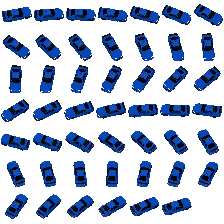
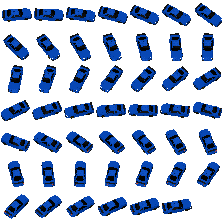
clear and optimizations

diff --git a/src/main.ts b/src/main.ts
@@ -1,6 +1,6 @@
 import CarObject from "./objects/CarObject.ts";
 import PolygonCollider from "./objects/Colliders/PolygonCollider.ts";
-import {vec2D} from "./utils/math.ts";
+import {degreesToRadians, vec2D} from "./utils/math.ts";
 import Scene from "./Scene.ts";
 import KajakEngine from "./KajakEngine.ts";
 import TreeObject from "./objects/TreeObject.ts";
@@ -11,6 +11,7 @@ import {TrackBarriers} from "./objects/BarierSystem.ts";
 import CheckpointObject from "./objects/CheckpointObject.ts";
 import {AIBehaviorType, CarAIController} from "./objects/CarAI.ts";
 import {setupStartingGrid} from "./utils/gridPositionHelper.ts";
+import {AABBCollider} from "./objects/Colliders/AABBCollider.ts";
 
 const canvas = document.createElement('canvas');
 document.body.appendChild(canvas);
@@ -35,25 +36,22 @@ engine.setCurrentScene(1);
 
 const checkpoints = [
     new CheckpointObject({
-        position: vec2D(-50, 10),
+        position: vec2D(-46, 10),
         size: vec2D(10, 2),
         order: 0,
         isFinishLine: false,
         movable: false,
-        collider: new PolygonCollider(
-            vec2D(0, 0),
-            [
-                vec2D(-5, -1),
-                vec2D(5, -1),
-                vec2D(5, 1),
-                vec2D(-5, 1)
-            ]
+        rotation: degreesToRadians(45),
+        collider: new AABBCollider(
+            vec2D(-12, -1),
+            vec2D(22, 2)
         ),
         spriteManager: new SpriteManager({
-            imageSrc: 'src/assets/map2.png',
+            imageSrc: 'src/assets/checkpoint.png',
             cellSize: vec2D(32, 32),
-            count: 1,
-            columns: 1
+            count: 48,
+            columns: 7,
+            offset: 47
         }),
         mass: 1
     }),
@@ -63,112 +61,97 @@ const checkpoints = [
         order: 1,
         isFinishLine: false,
         movable: false,
-        collider: new PolygonCollider(
-            vec2D(0, 0),
-            [
-                vec2D(-5, -1),
-                vec2D(5, -1),
-                vec2D(5, 1),
-                vec2D(-5, 1)
-            ]
+        rotation: degreesToRadians(130),
+        collider: new AABBCollider(
+            vec2D( -1, -12),
+            vec2D(2, 18,)
         ),
         spriteManager: new SpriteManager({
-            imageSrc: 'src/assets/map2.png',
+            imageSrc: 'src/assets/checkpoint.png',
             cellSize: vec2D(32, 32),
-            count: 1,
-            columns: 1
+            count: 48,
+            columns: 7,
+            offset: 47
         }),
         mass: 1
     }),
     new CheckpointObject({
-        position: vec2D(25, -15),
+        position: vec2D(25, -18),
         size: vec2D(10, 2),
         order: 2,
         isFinishLine: false,
         movable: false,
-        collider: new PolygonCollider(
-            vec2D(0, 0),
-            [
-                vec2D(-5, -1),
-                vec2D(5, -1),
-                vec2D(5, 1),
-                vec2D(-5, 1)
-            ]
+        rotation: degreesToRadians(65),
+        collider: new AABBCollider(
+            vec2D( -1, -12),
+            vec2D(2, 18,)
         ),
         spriteManager: new SpriteManager({
-            imageSrc: 'src/assets/map2.png',
+            imageSrc: 'src/assets/checkpoint.png',
             cellSize: vec2D(32, 32),
-            count: 1,
-            columns: 1
+            count: 48,
+            columns: 7,
+            offset: 47
         }),
         mass: 1
     }),
     new CheckpointObject({
-        position: vec2D(45, 0),
+        position: vec2D(50, 0),
         size: vec2D(10, 2),
         order: 3,
         isFinishLine: false,
         movable: false,
-        collider: new PolygonCollider(
-            vec2D(0, 0),
-            [
-                vec2D(-5, -1),
-                vec2D(5, -1),
-                vec2D(5, 1),
-                vec2D(-5, 1)
-            ]
+        rotation: degreesToRadians(0),
+        collider: new AABBCollider(
+            vec2D(-12, -1),
+            vec2D(22, 2)
         ),
         spriteManager: new SpriteManager({
-            imageSrc: 'src/assets/map2.png',
+            imageSrc: 'src/assets/checkpoint.png',
             cellSize: vec2D(32, 32),
-            count: 1,
-            columns: 1
+            count: 48,
+            columns: 7,
+            offset: 47
         }),
         mass: 1
     }),
     new CheckpointObject({
-        position: vec2D(25, 18),
+        position: vec2D(26, 16),
         size: vec2D(10, 2),
         order: 4,
         isFinishLine: false,
         movable: false,
-        collider: new PolygonCollider(
-            vec2D(0, 0),
-            [
-                vec2D(-5, -1),
-                vec2D(5, -1),
-                vec2D(5, 1),
-                vec2D(-5, 1)
-            ]
+        rotation: degreesToRadians(245),
+        collider: new AABBCollider(
+            vec2D(-1, -12),
+            vec2D(2, 22)
         ),
         spriteManager: new SpriteManager({
-            imageSrc: 'src/assets/map2.png',
+            imageSrc: 'src/assets/checkpoint.png',
             cellSize: vec2D(32, 32),
-            count: 1,
-            columns: 1
+            count: 48,
+            columns: 7,
+            offset: 47
         }),
         mass: 1
     }),
     new CheckpointObject({
-        position: vec2D(-35, -23),
+        position: vec2D(-25, -18),
         size: vec2D(10, 2),
         order: 5,
         isFinishLine: false,
         movable: false,
-        collider: new PolygonCollider(
-            vec2D(0, 0),
-            [
-                vec2D(-5, -1),
-                vec2D(5, -1),
-                vec2D(5, 1),
-                vec2D(-5, 1)
-            ]
+        rotation: degreesToRadians(285),
+        collider: new AABBCollider(
+            vec2D(-1, -12),
+            vec2D(2, 22)
         ),
         spriteManager: new SpriteManager({
-            imageSrc: 'src/assets/map2.png',
+            imageSrc: 'src/assets/checkpoint.png',
             cellSize: vec2D(32, 32),
-            count: 1,
-            columns: 1
+            count: 48,
+            columns: 7,
+            offset: 47
         }),
         mass: 1
     }),
@@ -178,20 +161,17 @@ const checkpoints = [
         order: 6,
         isFinishLine: true,
         movable: false,
-        collider: new PolygonCollider(
-            vec2D(0, 0),
-            [
-                vec2D(-5, -1),
-                vec2D(5, -1),
-                vec2D(5, 1),
-                vec2D(-5, 1)
-            ]
+        rotation: degreesToRadians(0),
+        collider: new AABBCollider(
+            vec2D(-12, -1),
+            vec2D(22, 2)
         ),
         spriteManager: new SpriteManager({
-            imageSrc: 'src/assets/map2.png',
+            imageSrc: 'src/assets/checkpoint.png',
             cellSize: vec2D(32, 32),
-            count: 1,
-            columns: 1
+            count: 48,
+            columns: 7,
+            offset: 47
         }),
         mass: 1
     }),
@@ -271,7 +251,8 @@ function createCar(position: Vec2D, imageSrc: string, isPlayer: boolean = false)
             imageSrc: imageSrc,
             cellSize: vec2D(32, 32),
             count: 48,
-            columns: 7
+            columns: 7,
+            offset: 36
         }),
         isPlayer,
         id: carId
@@ -285,7 +266,7 @@ const playerCar = createCar(vec2D(3, 0), 'src/assets/car3.png', true);
 const aiCar1 = createCar(vec2D(-3, 2), 'src/assets/car1.png', false);
 const aiCar2 = createCar(vec2D(-2, -2), 'src/assets/car2.png', false);
 const aiCar3 = createCar(vec2D(-5, 0), 'src/assets/car4.png', false);
-const aiCar4 = createCar(vec2D(-5, 2), 'src/assets/car2.png', false);
+const aiCar4 = createCar(vec2D(-5, 2), 'src/assets/car5.png', false);
 
 const aiController1 = new CarAIController(aiCar1, AIBehaviorType.STRAIGHT_LINE_MASTER);
 const aiController2 = new CarAIController(aiCar2, AIBehaviorType.STEADY_MIDDLE);

diff --git a/src/objects/SpriteManager.ts b/src/objects/SpriteManager.ts
@@ -7,6 +7,7 @@ export type SpriteOptions = {
     cellSize: Vec2D;
     columns: number;
     count: number;
+    offset?: number;
 };
 
 export default class SpriteManager {
@@ -14,6 +15,7 @@ export default class SpriteManager {
     private readonly _cellSize: Vec2D;
     private readonly _columns: number;
     private readonly _count: number;
+    private readonly _offset: number;
     private _hidden: boolean = false;
 
     constructor(options: SpriteOptions) {
@@ -21,6 +23,7 @@ export default class SpriteManager {
         this._cellSize = options.cellSize;
         this._count = options.count;
         this._columns = options.columns;
+        this._offset = options.offset || 0;
     }
 
     drawSprite(ctx: CanvasRenderingContext2D, index: number, position: Vec2D, smoothing: boolean = false): void {
@@ -53,10 +56,10 @@ export default class SpriteManager {
         )
     }
 
-    getSprinteIndexByRotation(rotation: number, offset: number = 0): number {
+    getSprinteIndexByRotation(rotation: number): number {
         const normalizedAngle = ((rotation * (180 / Math.PI)) % 360 + 360) % 360;
         const step = 360 / this._count;
-        return Math.floor(normalizedAngle / step + offset) % this._count;
+        return Math.floor(normalizedAngle / step + this._offset) % this._count;
     }
 
     get cellSize(): Vec2D {

diff --git a/src/Scene.ts b/src/Scene.ts
@@ -113,7 +113,7 @@ export default class Scene {
 
             if(!obj.spriteManager) continue;
 
-            const spriteIndex = obj.spriteManager.getSprinteIndexByRotation(obj.rotation, 36);
+            const spriteIndex = obj.spriteManager.getSprinteIndexByRotation(obj.rotation);
             obj.spriteManager.drawSprite(ctx, spriteIndex, obj.position);
         }
 

diff --git a/src/utils/math.ts b/src/utils/math.ts
@@ -39,3 +39,7 @@ export const normalize = (vec: Vec2D) : Vec2D => {
 export const dotProduct = (vec1: Vec2D, vec2: Vec2D) : number => {
     return vec1.x * vec2.x + vec1.y * vec2.y;
 }
+
+export const degreesToRadians = (degrees: number): number => {
+    return degrees * (Math.PI / 180);
+}
